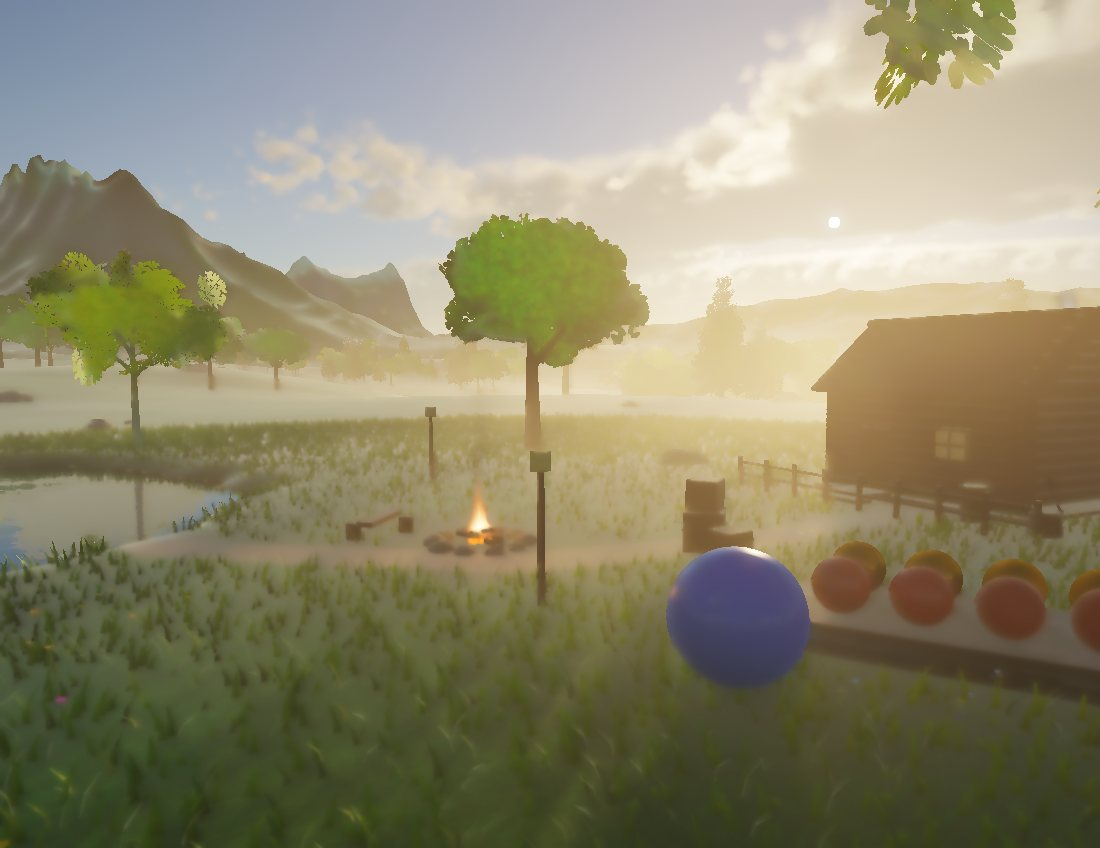
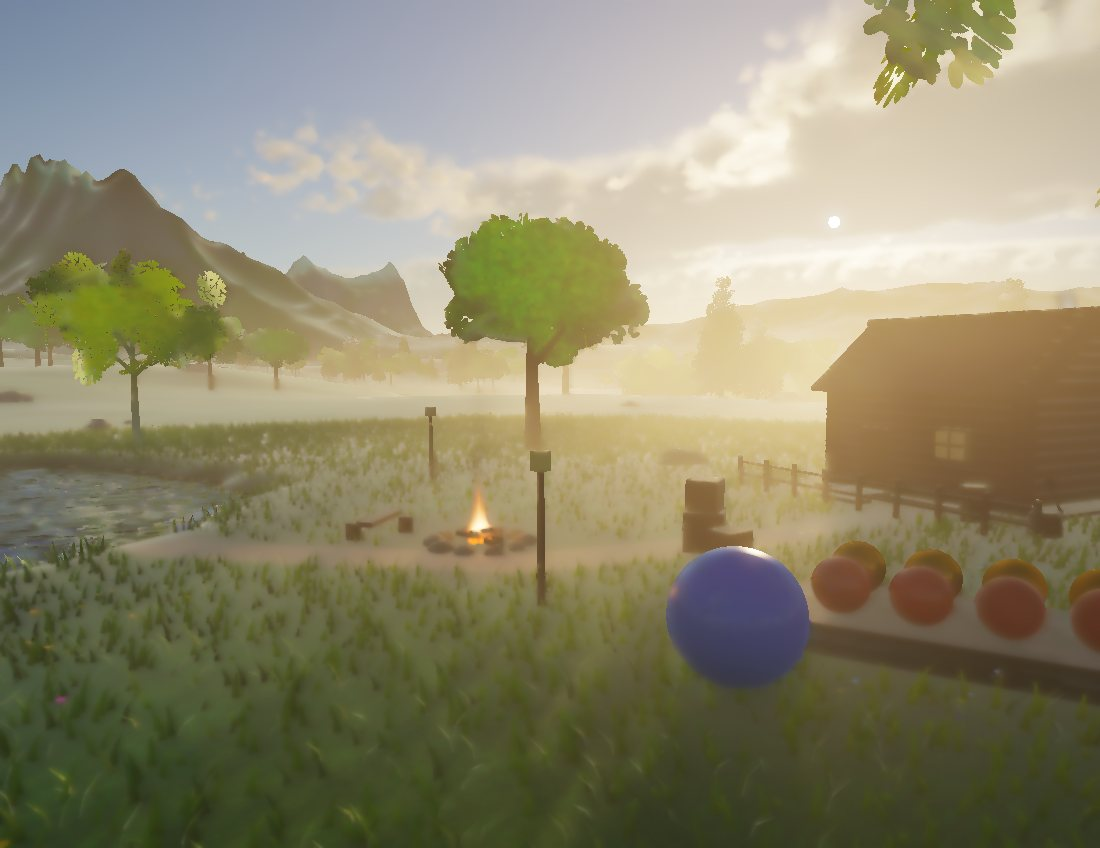
Sky, Sun & Light: wind waves from a JONSWAP spectrum and a compute FFT, with foam and caustics

diff --git a/sandbox/sky-and-light.html b/sandbox/sky-and-light.html
@@ -437,7 +437,7 @@ struct Params { invPV: mat4x4f, camPos: vec4f, sunDir: vec4f, sunCol: vec4f, moo
   sunE: f32, sunfade: f32, mieG: f32, sunCos: f32, night: f32, skyOn: f32, bounceOn: f32, fogD: f32, sunSize: f32, moonSize: f32, noiseShift: f32, blend: f32,
   tlasRoot: i32, nsph: i32, shadowK: i32, giK: i32, view: i32, frame: i32, shadowStride: i32, giStride: i32,
   matA: array<vec4f, ${MATN}>, matB: array<vec4f, ${MATN}>, matC: array<vec4f, ${MATN}>, sphA: array<vec4f, 40>, sphB: array<vec4f, 40>,
-  prevPV: mat4x4f, time: f32, mist: f32, cover: f32, wind: f32, fireBox0: vec4f, fireBox1: vec4f, chimBox0: vec4f, chimBox1: vec4f, waterOrg: vec4f, simOn: vec4f };
+  prevPV: mat4x4f, time: f32, mist: f32, cover: f32, wind: f32, fireBox0: vec4f, fireBox1: vec4f, chimBox0: vec4f, chimBox1: vec4f, waterOrg: vec4f, simOn: vec4f, ocean: vec4f };
 @group(0) @binding(0) var<uniform> P: Params;
 @group(0) @binding(1) var<storage, read> nodes: array<vec4f>;
 @group(0) @binding(2) var<storage, read> tris: array<vec4f>;
@@ -453,6 +453,8 @@ struct Params { invPV: mat4x4f, camPos: vec4f, sunDir: vec4f, sunCol: vec4f, moo
 @group(0) @binding(12) var tAP: texture_3d<f32>;
 @group(0) @binding(13) var sampC: sampler;
 @group(0) @binding(14) var tNoise: texture_3d<f32>;
+@group(0) @binding(15) var tOcean: texture_2d<f32>;
+@group(0) @binding(16) var tShore: texture_2d<f32>;
 const PI: f32 = 3.14159265;
 const LAKE: vec2f = vec2f(${LAKE.x.toFixed(1)}, ${LAKE.z.toFixed(1)});
 const LAKE_R: f32 = ${LAKE_R.toFixed(1)};
@@ -499,6 +501,10 @@ fn clouds(d: vec3f, base: vec3f, jit: f32, n: i32) -> vec3f { if (d.y < 0.02 || 
   let far = 1.0 - smoothstep(0.02, 0.09, d.y); let cl = base * T + acc * (1.0 - far * 0.6); return mix(cl, base, haze); }
 fn hg2(c: f32, g: f32) -> f32 { let g2 = g * g; return (1.0 - g2) / (4.0 * 3.14159265 * pow(1.0 + g2 - 2.0 * g * c, 1.5)); }
 fn cloudShadow(p: vec3f) -> f32 { let sun = P.sunDir.xyz; if (sun.y < 0.06 || P.cover <= 0.01) { return 1.0; } let w = cloudWeather((p + sun * ((CB + 350.0 - p.y) / sun.y)).xz); var od = 0.0; for (var k = 0; k < 3; k++) { let hy = CB + (CT - CB) * (0.2 + 0.3 * f32(k)); let q = p + sun * ((hy - p.y) / sun.y); od += cloudDensityW(q, false, w) * (CT - CB) * 0.3 * CSIG; } return mix(1.0, exp(-od), 0.9); }
+// wind waves: a tiled height field from a JONSWAP spectrum, turned into slopes, foam and a caustic factor by the FFT passes (tOcean = slope x, slope z, foam, caustic)
+const OCEAN_L: f32 = 16.0;
+fn oceanAt(xz: vec2f) -> vec4f { return textureSampleLevel(tOcean, samp, xz / OCEAN_L, 0.0); }
+fn shoreFade(xz: vec2f) -> f32 { let wu = (xz - P.waterOrg.xy) / P.waterOrg.z; if (any(wu <= vec2f(0.0)) || any(wu >= vec2f(1.0))) { return 0.0; } return textureSampleLevel(tShore, samp, wu, 0.0).g; }
 fn slab(bmin: vec3f, bmax: vec3f, o: vec3f, invD: vec3f, tMax: f32) -> bool { let t0 = (bmin - o) * invD; let t1 = (bmax - o) * invD; let tmin = min(t0, t1); let tmax = max(t0, t1); let tN = max(max(tmin.x, tmin.y), max(tmin.z, 0.0)); let tF = min(min(tmax.x, tmax.y), min(tmax.z, tMax)); return tN <= tF; }
 fn alphaOK(ti: i32, u: f32, w: f32) -> bool { let mid = i32(tris[ti * 3].w); let mb = P.matB[mid]; if (mb.w != 4.0) { return true; }
   let a0 = attrs[ti * 4]; let a1 = attrs[ti * 4 + 1]; let a2 = attrs[ti * 4 + 2]; let a3 = attrs[ti * 4 + 3]; let b0 = 1.0 - u - w; let uv = vec2f(a0.w * b0 + a1.w * u + a2.w * w, a3.x * b0 + a3.y * u + a3.z * w);
@@ -529,8 +535,9 @@ fn hitInfo(ro: vec3f, d: vec3f, H: Hit) -> Surf { var S: Surf; S.p = ro + d * H.
   else { let a0 = attrs[H.tri * 4]; let a1 = attrs[H.tri * 4 + 1]; let a2 = attrs[H.tri * 4 + 2]; let a3 = attrs[H.tri * 4 + 3]; let b0 = 1.0 - H.bary.x - H.bary.y; let nl = normalize(a0.xyz * b0 + a1.xyz * H.bary.x + a2.xyz * H.bary.y);
     let r0 = insts[H.inst * 4]; let r1 = insts[H.inst * 4 + 1]; let r2 = insts[H.inst * 4 + 2]; S.n = normalize(r0.xyz * nl.x + r1.xyz * nl.y + r2.xyz * nl.z); S.mid = i32(tris[H.tri * 3].w); S.uv = vec2f(a0.w * b0 + a1.w * H.bary.x + a2.w * H.bary.y, a3.x * b0 + a3.y * H.bary.x + a3.z * H.bary.y); }
   if (dot(S.n, d) > 0.0) { S.n = -S.n; }
-  if (P.matB[S.mid].w == 3.0) { let t = P.time; let b = S.p.xz * 3.9 + vec2f(-t * 0.11, t * 0.16); var g = vec2f(vn(b) - vn(b + 0.12), vn(b.yx) - vn(b.yx + 0.12)) * 0.05 * P.wind;
+  if (P.matB[S.mid].w == 3.0) { let t = P.time; let b = S.p.xz * 3.9 + vec2f(-t * 0.11, t * 0.16); var g = vec2f(vn(b) - vn(b + 0.12), vn(b.yx) - vn(b.yx + 0.12)) * 0.05 * P.wind * select(1.0, 0.3, P.ocean.x > 0.0);
     if (P.simOn.x > 0.5) { let wu = (S.p.xz - P.waterOrg.xy) / P.waterOrg.z; if (all(wu > vec2f(0.0)) && all(wu < vec2f(1.0))) { let n = P.waterOrg.w; let q = vec2i(wu * n); let cell = P.waterOrg.z / n; let hx = textureLoad(tWater, min(q + vec2i(1, 0), vec2i(i32(n) - 1)), 0).x - textureLoad(tWater, max(q - vec2i(1, 0), vec2i(0)), 0).x; let hz = textureLoad(tWater, min(q + vec2i(0, 1), vec2i(i32(n) - 1)), 0).x - textureLoad(tWater, max(q - vec2i(0, 1), vec2i(0)), 0).x; g += vec2f(hx, hz) / (2.0 * cell) * 0.45; } }
+    if (P.ocean.x > 0.0) { g += oceanAt(S.p.xz).xy * shoreFade(S.p.xz); }
     else { let a = S.p.xz * 1.7 + vec2f(t * 0.18, t * 0.07); g += vec2f(vn(a) - vn(a + 0.15), vn(a.yx) - vn(a.yx + 0.15)) * 0.22; }
     S.n = normalize(S.n + vec3f(g.x, 0.0, g.y)); }
   return S; }
@@ -672,14 +679,14 @@ fn marchVol(ro: vec3f, rd: vec3f, tMax: f32, b0: vec3f, b1: vec3f, isFire: bool,
     let sharp = select(0.0, 1.0 - smoothstep(0.12, 0.45, rough), R.a > 0.5); col += mix(specAmb, F * R.rgb, sharp) * select(vec3f(1.0), alb, metal > 0.5);
     if (P.matB[i32(D.w)].w == 3.0) { // water: what the mirror does not take goes down into it, and comes back tinted by how far it went
       let Fw = 0.02 + 0.98 * pow(1.0 - ndv, 5.0); let rd = refract(-v, n, 1.0 / 1.33); var under = vec3f(0.01, 0.06, 0.08);
-      if (dot(rd, rd) > 0.0) { let H = trace(p - n * 3e-3, rd, 40.0, false); if (H.hit) { let S = hitInfo(p - n * 3e-3, rd, H); let bottom = bounceShade(S, -rd, H.t + A.w, ign0(vec2f(px))); let ab = exp(-vec3f(0.55, 0.22, 0.14) * (H.t * 2.2 + 0.9)); under = bottom * ab + vec3f(0.02, 0.10, 0.12) * (1.0 - ab) * (P.skyZen.xyz * 3.0 + P.sunCol.xyz * 0.02); let foam = (1.0 - smoothstep(0.03, 0.35, H.t)) * smoothstep(0.55, 0.75, vn(p.xz * 3.0 + vec2f(P.time * 0.3, 0.0)) * 0.6 + vn(p.xz * 7.0 - P.time * 0.2) * 0.4); under = mix(under, (P.skyZen.xyz * 2.0 + P.sunCol.xyz * 0.25) * 0.8, foam * 0.5); } }
+      if (dot(rd, rd) > 0.0) { let H = trace(p - n * 3e-3, rd, 40.0, false); if (H.hit) { let S = hitInfo(p - n * 3e-3, rd, H); var bottom = bounceShade(S, -rd, H.t + A.w, ign0(vec2f(px))); if (P.ocean.x > 0.0 && P.sunDir.y > 0.05) { let cq = S.p + P.sunDir.xyz * ((p.y - S.p.y) / P.sunDir.y); let ca = oceanAt(cq.xz).w; bottom *= mix(1.0, ca, 0.85 * smoothstep(0.05, 0.2, P.sunDir.y) * shoreFade(cq.xz)); } let ab = exp(-vec3f(0.55, 0.22, 0.14) * (H.t * 2.2 + 0.9)); under = bottom * ab + vec3f(0.02, 0.10, 0.12) * (1.0 - ab) * (P.skyZen.xyz * 3.0 + P.sunCol.xyz * 0.02); let foam = (1.0 - smoothstep(0.03, 0.35, H.t)) * smoothstep(0.55, 0.75, vn(p.xz * 3.0 + vec2f(P.time * 0.3, 0.0)) * 0.6 + vn(p.xz * 7.0 - P.time * 0.2) * 0.4); let wf = select(0.0, oceanAt(p.xz).z * shoreFade(p.xz), P.ocean.x > 0.0); under = mix(under, (P.skyZen.xyz * 2.0 + P.sunCol.xyz * 0.25) * 0.8, min(foam * 0.5 + wf * 0.7, 0.9)); } }
       col = emis + sunVis * ndl * P.sunCol.xyz * specBRDF(n, v, P.sunDir.xyz, rough, vec3f(0.02)) + sphereLights(p + n * 3e-3, n, v, vec3f(0.0), vec3f(0.02), rough, ign0(vec2f(px)), 1, 24.0) + Fw * select(specAmb, R.rgb, R.a > 0.5) + (1.0 - Fw) * under; }
     // haze, and a mist that pools low in the valley
     let hc = max(P.camPos.y, 0.0); let hp = max(p.y, 0.0); let dh = hp - hc; let mistInt = select(exp(-hc / 6.0) * (1.0 - exp(-dh / 6.0)) / (dh / 6.0), exp(-hc / 6.0), abs(dh) < 0.01);
     let Tm = exp(-(P.mist * mistInt + 0.0004) * min(A.w, 140.0)); col = col * Tm + upsampleVol(px, A); col = aerial((vec2f(px) + 0.5) / P.res, A.w * (0.35 + 0.65 * clamp(P.fogD / 0.0015, 0.0, 3.0)), col);
-    if (P.view == 1) { col = vec3f(sunVis); } else if (P.view == 2) { col = E * 0.5; } else if (P.view == 3) { col = select(vec3f(0.0), R.rgb, R.a > 0.5); } }
+    if (P.view == 1) { col = vec3f(sunVis); } else if (P.view == 2) { col = E * 0.5; } else if (P.view == 3) { col = select(vec3f(0.0), R.rgb, R.a > 0.5); } else if (P.view == 9) { col = vec3f(n.x * 4.0 + 0.5, n.z * 4.0 + 0.5, 0.0); } else if (P.view == 10) { let o = oceanAt(p.xz); col = vec3f(o.x * 2.0 + 0.5, o.y * 2.0 + 0.5, shoreFade(p.xz)); } }
   { let uv = (vec2f(px) + 0.5) / P.res; let w = P.invPV * vec4f(uv.x * 2.0 - 1.0, 1.0 - uv.y * 2.0, 1.0, 1.0); let d = normalize(w.xyz / w.w - P.camPos.xyz); let tm = select(A.w, 1e9, A.w < 0.0); let j = ign(vec2f(px));
-    if (P.view == 5) { col = textureSampleLevel(tNoise, samp, vec3f(uv * 2.0, 0.3), 0.0).rgb; } else if (P.view == 6) { if (d.y > 0.02) { let q = P.camPos.xyz + d * ((1100.0 - P.camPos.y) / d.y); let wt = cloudWeather(q.xz); col = vec3f(cloudDensity(q, true) * 3.0, wt.x, 0.0); } }
+    if (P.view == 5) { col = textureSampleLevel(tNoise, samp, vec3f(uv * 2.0, 0.3), 0.0).rgb; } else if (P.view == 8) { let wx = P.waterOrg.xy + uv * P.waterOrg.z; col = vec3f(shoreFade(wx), textureSampleLevel(tShore, samp, uv, 0.0).r, 0.0); } else if (P.view == 7) { let o = select(textureSampleLevel(tOcean, samp, uv * vec2f(0.5, 0.25), 0.0), textureLoad(tOcean, vec2i(uv * vec2f(0.5, 0.25) * 128.0) % 128, 0), uv.x > 0.5); col = vec3f(o.x * 2.0 + 0.5, o.y * 2.0 + 0.5, 0.0); } else if (P.view == 6) { if (d.y > 0.02) { let q = P.camPos.xyz + d * ((1100.0 - P.camPos.y) / d.y); let wt = cloudWeather(q.xz); col = vec3f(cloudDensity(q, true) * 3.0, wt.x, 0.0); } }
     if (P.simOn.y > 0.5) { col = marchVol(P.camPos.xyz, d, tm, P.fireBox0.xyz, P.fireBox1.xyz, true, j, col); } if (P.simOn.z > 0.5) { col = marchVol(P.camPos.xyz, d, tm, P.chimBox0.xyz, P.chimBox1.xyz, false, j, col); } }
   textureStore(oCur, px, vec4f(col, A.w)); }`;
 // temporal anti-aliasing: find where this pixel was last frame, and blend, unless the history clearly does not belong here
@@ -757,12 +764,47 @@ fn srgb(c0: vec3f) -> vec3f { let c = clamp(c0, vec3f(0.0), vec3f(1.0)); return 
 @fragment fn fs(i: VO) -> @location(0) vec4f { var c = textureSampleLevel(tSrc, samp, i.uv, 0.0).rgb; let bl = textureSampleLevel(tBloom, samp, i.uv, 0.0).rgb; c += bl * D.bloom;
   if (D.shafts > 0.0 && D.sunUp > 0.0) { var sh = vec3f(0.0); let dv = (D.sunUv - i.uv) / 24.0; var uv = i.uv; var wsum = 0.0; for (var k = 0; k < 24; k++) { uv += dv; let w = 1.0 - f32(k) / 24.0; sh += textureSampleLevel(tBloom, samp, uv, 0.0).rgb * w; wsum += w; } let dist = length((D.sunUv - i.uv) * vec2f(1.0, 0.75)); c += sh / wsum * D.shafts * D.sunUp * (1.0 - smoothstep(0.35, 0.9, dist)); }
   c *= D.exposure; if (D.curve == 1.0) { c = aces(c); } else if (D.curve == 2.0) { c = c / (1.0 + c); } let lum = dot(c, vec3f(0.3, 0.59, 0.11)); c = mix(vec3f(lum), c, 1.1); let vd = length((i.uv - 0.5) * vec2f(1.0, 0.85)); c *= 1.0 - 0.28 * smoothstep(0.35, 0.95, vd); return vec4f(srgb(c), 1.0); }`;
-let gpu = null; const prevPV = new THREE.Matrix4(); const fx = { time: 0, dt: 0.016, mist: 0.006, cover: 0.35, wind: 1, bloom: 0.12, shafts: 0, waterOn: true, fireOn: true, chimOn: true, hideFlame: true, rain: 0, fireStrength: 1, smokeAmt: 1, windOn: true };
+let gpu = null; const prevPV = new THREE.Matrix4(); const fx = window.__fx = { oceanOn: true, waveAmp: 1, time: 0, dt: 0.016, mist: 0.006, cover: 0.35, wind: 1, bloom: 0.12, shafts: 0, waterOn: true, fireOn: true, chimOn: true, hideFlame: true, rain: 0, fireStrength: 1, smokeAmt: 1, windOn: true };
 // the simulation grids: a wave grid over the lake (with the shore as a wall), and two boxes of air over the fire and the chimney
-const SIM = (() => { const n = 256, size = 44, x0 = LAKE.x - size / 2, z0 = LAKE.z - size / 2; const land = new Uint8Array(n * n); for (let j = 0; j < n; j++) for (let i = 0; i < n; i++) { const x = x0 + (i + 0.5) / n * size, z = z0 + (j + 0.5) / n * size; land[j * n + i] = terrainH(x, z) > -0.55 ? 255 : 0; }
+const SIM = (() => { const n = 256, size = 44, x0 = LAKE.x - size / 2, z0 = LAKE.z - size / 2; const land = new Uint8Array(n * n * 2); for (let j = 0; j < n; j++) for (let i = 0; i < n; i++) { const x = x0 + (i + 0.5) / n * size, z = z0 + (j + 0.5) / n * size; const th = terrainH(x, z); land[(j * n + i) * 2] = th > -0.55 ? 255 : 0; const dp = Math.min(Math.max((-0.55 - th) / 0.9, 0), 1); land[(j * n + i) * 2 + 1] = Math.round(255 * dp * dp * (3 - 2 * dp)); }
   const fy = terrainH(FIRE.x, FIRE.z); const ca = Math.cos(-0.55), sa = Math.sin(-0.55); const cx = CABIN.x + (3.2 - 1.2) * ca + (-2.3 + 0.9) * sa, cz = CABIN.z - (3.2 - 1.2) * sa + (-2.3 + 0.9) * ca; const cy = terrainH(CABIN.x, CABIN.z) - 0.1 + 5.5;
   return { water: { n, size, x0, z0, land }, fire: { min: [FIRE.x - 1.3, fy + 0.05, FIRE.z - 1.3], max: [FIRE.x + 1.3, fy + 3.65, FIRE.z + 1.3], cell: 0.06, dims: [44, 60, 44], src: [FIRE.x, fy + 0.3, FIRE.z], srcR: 0.45, buoy: 7.0, heat: 1.0, smoke: 0.25 },
     chim: { min: [cx - 1.5, cy - 0.2, cz - 1.5], max: [cx + 1.5, cy + 5.2, cz + 1.5], cell: 0.09, dims: [34, 60, 34], src: [cx, cy + 0.05, cz], srcR: 0.32, buoy: 4.0, heat: 0.22, smoke: 1.6 } }; })();
+const OCEAN_N = 128, OCEAN_L = 16;
+// wind waves the way the sea is done: a JONSWAP spectrum (fetch-limited, so a pond in a breeze gets short waves), random phases, moved in time by the dispersion relation, then an inverse FFT
+const WG_OCEAN_COMMON = `
+struct OP { n: f32, L: f32, U: f32, F: f32, lam: f32, t: f32, amp: f32, dir: f32, seed: f32, foamK: f32, causK: f32, pad: f32 };
+@group(0) @binding(0) var<uniform> O: OP;
+const PI2: f32 = 6.28318530718; const GR: f32 = 9.81;
+fn kOf(px: vec2i) -> vec2f { let n = i32(O.n); return vec2f(f32(px.x - n / 2), f32(px.y - n / 2)) * PI2 / O.L; }
+fn omega(k: f32) -> f32 { return sqrt(GR * k * (1.0 + (k / 370.0) * (k / 370.0))); }
+fn cmul(a: vec2f, b: vec2f) -> vec2f { return vec2f(a.x * b.x - a.y * b.y, a.x * b.y + a.y * b.x); }`;
+const WG_OCEAN_INIT = WG_OCEAN_COMMON + `
+@group(0) @binding(1) var oH0: texture_storage_2d<rgba32float, write>;
+fn h21(p: vec2f) -> f32 { return fract(sin(dot(p, vec2f(127.1, 311.7))) * 43758.5453); }
+fn pcg2d(pIn: vec2u) -> vec2u { var v = pIn * 1664525u + 1013904223u; v.x += v.y * 1664525u; v.y += v.x * 1664525u; v ^= v >> vec2u(16u); v.x += v.y * 1664525u; v.y += v.x * 1664525u; v ^= v >> vec2u(16u); return v; }
+fn gauss(p: vec2f) -> vec2f { let r = pcg2d(vec2u(p) + vec2u(u32(O.seed) * 7919u, 17u)); let u1 = max(f32(r.x) / 4294967296.0, 1e-7); let u2 = f32(r.y) / 4294967296.0; let rr = sqrt(-2.0 * log(u1)); return vec2f(rr * cos(PI2 * u2), rr * sin(PI2 * u2)); }
+fn jonswap(w: f32) -> f32 { if (w <= 0.0) { return 0.0; } let wp = 22.0 * pow(GR * GR / (O.U * O.F), 1.0 / 3.0); let alpha = 0.076 * pow(O.U * O.U / (O.F * GR), 0.22); let sigma = select(0.09, 0.07, w <= wp); let r = exp(-(w - wp) * (w - wp) / (2.0 * sigma * sigma * wp * wp)); return alpha * GR * GR / pow(w, 5.0) * exp(-1.25 * pow(wp / w, 4.0)) * pow(3.3, r); }
+fn spread(th: f32) -> f32 { let c = cos(th - O.dir); return select(0.035, 0.035 + 0.5 * c * c, c > 0.0); }
+fn h0(k: vec2f, px: vec2f) -> vec2f { let kl = length(k); if (kl < 1e-4) { return vec2f(0.0); } let w = omega(kl); let dwdk = GR * (1.0 + 3.0 * (kl / 370.0) * (kl / 370.0)) / (2.0 * w); let dk = PI2 / O.L; let phi = jonswap(w) * spread(atan2(k.y, k.x)) * dwdk / kl; let cut = 1.0 - smoothstep(6.0, 11.0, kl); return gauss(px) * sqrt(2.0 * phi * dk * dk * cut) * 0.70710678; }
+@compute @workgroup_size(8, 8) fn main(@builtin(global_invocation_id) gid: vec3u) { let px = vec2i(gid.xy); let n = i32(O.n); if (px.x >= n || px.y >= n) { return; } let k = kOf(px); let a = h0(k, vec2f(px)); let b = h0(-k, vec2f(f32((n - px.x) % n), f32((n - px.y) % n))); textureStore(oH0, px, vec4f(a, b.x, -b.y)); }`;
+const WG_OCEAN_TIME = WG_OCEAN_COMMON + `
+@group(0) @binding(1) var tH0: texture_2d<f32>; @group(0) @binding(2) var oS: texture_storage_2d<rgba32float, write>;
+@compute @workgroup_size(8, 8) fn main(@builtin(global_invocation_id) gid: vec3u) { let px = vec2i(gid.xy); let n = i32(O.n); if (px.x >= n || px.y >= n) { return; } let k = kOf(px); let kl = length(k); let h = textureLoad(tH0, px, 0); let w = omega(kl) * O.t; let e = vec2f(cos(w), sin(w));
+  let H = (cmul(h.xy, e) + cmul(h.zw, vec2f(e.x, -e.y))) * O.amp; var s1 = vec2f(0.0); var s2 = vec2f(0.0); if (kl > 1e-4) { s1 = H * (1.0 + O.lam * k.x / kl); let q = O.lam * k.y / kl + kl * kl; s2 = vec2f(H.y * q, -H.x * q); } textureStore(oS, px, vec4f(s1, s2)); }`;
+const WG_FFT = `
+struct FP { stage: u32, dir: u32, n: u32, pad: u32 };
+@group(0) @binding(0) var<uniform> Fp: FP; @group(0) @binding(1) var tIn: texture_2d<f32>; @group(0) @binding(2) var oOut: texture_storage_2d<rgba32float, write>;
+fn cmul(a: vec2f, b: vec2f) -> vec2f { return vec2f(a.x * b.x - a.y * b.y, a.x * b.y + a.y * b.x); }
+@compute @workgroup_size(8, 8) fn main(@builtin(global_invocation_id) gid: vec3u) { let n = Fp.n; let half = n / 2u; if (gid.x >= half || gid.y >= n) { return; } let j = gid.x; let line = gid.y; let Ns = 1u << Fp.stage; let k = j % Ns; let ang = 6.28318530718 * f32(k) / f32(2u * Ns); let tw = vec2f(cos(ang), sin(ang));
+  var c0 = vec2i(i32(j), i32(line)); var c1 = vec2i(i32(j + half), i32(line)); if (Fp.dir == 1u) { c0 = c0.yx; c1 = c1.yx; } let a = textureLoad(tIn, c0, 0); let b = textureLoad(tIn, c1, 0); let b1 = cmul(b.xy, tw); let b2 = cmul(b.zw, tw);
+  let o0 = (j / Ns) * 2u * Ns + k; let o1 = o0 + Ns; var d0 = vec2i(i32(o0), i32(line)); var d1 = vec2i(i32(o1), i32(line)); if (Fp.dir == 1u) { d0 = d0.yx; d1 = d1.yx; } textureStore(oOut, d0, vec4f(a.xy + b1, a.zw + b2)); textureStore(oOut, d1, vec4f(a.xy - b1, a.zw - b2)); }`;
+const WG_OCEAN_FIN = WG_OCEAN_COMMON + `
+@group(0) @binding(1) var tS: texture_2d<f32>; @group(0) @binding(2) var oO: texture_storage_2d<rgba16float, write>;
+fn ld(px: vec2i) -> vec4f { let n = i32(O.n); let q = ((px % n) + n) % n; let sg = select(1.0, -1.0, ((q.x + q.y) & 1) == 1); return textureLoad(tS, q, 0) * sg; }
+@compute @workgroup_size(8, 8) fn main(@builtin(global_invocation_id) gid: vec3u) { let px = vec2i(gid.xy); let n = i32(O.n); if (px.x >= n || px.y >= n) { return; } let c = ld(px); let dx = 2.0 * O.L / O.n; let xp = ld(px + vec2i(1, 0)); let xm = ld(px - vec2i(1, 0)); let zp = ld(px + vec2i(0, 1)); let zm = ld(px - vec2i(0, 1));
+  let sx = (xp.x - xm.x) / dx; let sz = (zp.x - zm.x) / dx; let jxx = 1.0 + (xp.y - xm.y) / dx; let jzz = 1.0 + (zp.z - zm.z) / dx; let jxz = (zp.y - zm.y) / dx; let jzx = (xp.z - xm.z) / dx; let J = jxx * jzz - jxz * jzx;
+  let foam = clamp((O.foamK - J) * 2.5, 0.0, 1.0); let caus = min(1.0 / max(1.0 + c.w * O.causK, 0.2), 5.0); textureStore(oO, px, vec4f(sx, sz, foam, caus)); }`;
 const WG_WATER = `
 struct WP { n: f32, size: f32, dt: f32, time: f32, wind: f32, rain: f32, windDir: f32, pad: f32, drops: array<vec4f, 8>, nd: f32, p1: f32, p2: f32, p3: f32 };
 @group(0) @binding(0) var<uniform> W: WP; @group(0) @binding(1) var tIn: texture_2d<f32>; @group(0) @binding(2) var tLand: texture_2d<f32>; @group(0) @binding(3) var oOut: texture_storage_2d<rg32float, write>;
@@ -774,7 +816,7 @@ fn hAt(q: vec2i) -> f32 { let n = i32(W.n); if (q.x < 0 || q.y < 0 || q.x >= n |
   let hv = textureLoad(tIn, px, 0).xy; var h = hv.x; var v = hv.y; let avg = (hAt(px + vec2i(1, 0)) + hAt(px - vec2i(1, 0)) + hAt(px + vec2i(0, 1)) + hAt(px - vec2i(0, 1))) * 0.25;
   v = (v + (avg - h) * 0.45) * 0.994; h = (h + v) * 0.9985;
   // wind drags little ripples across, rain drops dimples, clicks make rings
-  let cell = W.size / W.n; let wp = vec2f(px) * cell; let gust = vn(wp * 0.9 + vec2f(W.time * 2.2, W.time * 0.7)) * vn(wp * 0.35 - vec2f(W.time * 0.9, 0.0)); h += (gust - 0.32) * 0.0012 * W.wind * W.dt * 60.0;
+  let cell = W.size / W.n; let wp = vec2f(px) * cell; let gust = vn(wp * 0.9 + vec2f(W.time * 2.2, W.time * 0.7)) * vn(wp * 0.35 - vec2f(W.time * 0.9, 0.0)); h += (gust - 0.32) * 0.0005 * W.wind * W.dt * 60.0;
   if (W.rain > 0.0) { let cellId = vec2f(px / 3); let r = h21(cellId + floor(W.time * 40.0)); if (r < W.rain * 0.002) { h -= 0.05; } }
   for (var i = 0; i < 8; i++) { if (f32(i) >= W.nd) { break; } let d = W.drops[i]; let dd = length(vec2f(px) - d.xy * W.n); if (dd < d.z) { h -= d.w * (1.0 - dd / d.z) * (1.0 - dd / d.z); } }
   textureStore(oOut, px, vec4f(h, v, 0.0, 0.0)); }`;
@@ -831,16 +873,16 @@ fn pAt(c: vec3i) -> f32 { let q = clamp(c, vec3i(0), vec3i(F.dims) - 1); return 
 async function startWebGPU() {
   if (!navigator.gpu) return null; const adapter = await navigator.gpu.requestAdapter({ powerPreference: 'high-performance' }).catch(() => null); if (!adapter) return null;
   const need = Math.max(nodeData.byteLength, triData.byteLength, attrData.byteLength, instData.byteLength); if (adapter.limits.maxStorageBufferBindingSize < need) return null;
-  const device = await adapter.requestDevice({ requiredLimits: { maxStorageBufferBindingSize: Math.max(need, 134217728), maxBufferSize: Math.max(need, 268435456) } }).catch(() => null); if (!device) return null;
+  const texLim = adapter.limits.maxSampledTexturesPerShaderStage; if (texLim < 18) return null; const device = await adapter.requestDevice({ requiredLimits: { maxStorageBufferBindingSize: Math.max(need, 134217728), maxBufferSize: Math.max(need, 268435456), maxSampledTexturesPerShaderStage: Math.min(texLim, 24) } }).catch(() => null); if (!device) return null;
   const canvas = document.createElement('canvas'); canvas.style.cssText = 'position:absolute;inset:0;width:100%;height:100%;display:block;'; sb.stage.insertBefore(canvas, sb.stage.firstChild); renderer.domElement.style.opacity = '0';
   const ctx = canvas.getContext('webgpu'); const format = navigator.gpu.getPreferredCanvasFormat(); ctx.configure({ device, format, alphaMode: 'opaque' });
   const mkBuf = (arr, usage) => { const b = device.createBuffer({ size: Math.ceil(arr.byteLength / 16) * 16, usage, mappedAtCreation: true }); new Float32Array(b.getMappedRange()).set(arr); b.unmap(); return b; };
   const bNodes = mkBuf(nodeData, GPUBufferUsage.STORAGE), bTris = mkBuf(triData, GPUBufferUsage.STORAGE), bTris0 = mkBuf(triData, GPUBufferUsage.STORAGE), bAttr = mkBuf(attrData, GPUBufferUsage.STORAGE), bInst = mkBuf(instData, GPUBufferUsage.STORAGE);
-  const PARAMS_F = 84 + MATN * 12 + 320 + 20 + 24; const paramsArr = new Float32Array(PARAMS_F), paramsI = new Int32Array(paramsArr.buffer); const bParams = device.createBuffer({ size: PARAMS_F * 4, usage: GPUBufferUsage.UNIFORM | GPUBufferUsage.COPY_DST });
+  const PARAMS_F = 84 + MATN * 12 + 320 + 20 + 24 + 4; const paramsArr = new Float32Array(PARAMS_F), paramsI = new Int32Array(paramsArr.buffer); const bParams = device.createBuffer({ size: PARAMS_F * 4, usage: GPUBufferUsage.UNIFORM | GPUBufferUsage.COPY_DST });
   const layers = [barkTex, birchTex, leafO, leafP, leafB, rockTex, woodTex, stoneTex, groundTex, grassTex]; const texArr = device.createTexture({ size: [256, 256, layers.length], format: 'rgba8unorm', usage: GPUTextureUsage.TEXTURE_BINDING | GPUTextureUsage.COPY_DST | GPUTextureUsage.RENDER_ATTACHMENT });
   layers.forEach((t, i) => device.queue.copyExternalImageToTexture({ source: t.image }, { texture: texArr, origin: [0, 0, i] }, [256, 256]));
   const samp = device.createSampler({ magFilter: 'linear', minFilter: 'linear', addressModeU: 'repeat', addressModeV: 'repeat', addressModeW: 'repeat' });
-  const g0Layout = device.createBindGroupLayout({ entries: [{ binding: 0, visibility: GPUShaderStage.COMPUTE, buffer: { type: 'uniform' } }, ...[1, 2, 3, 4].map(b => ({ binding: b, visibility: GPUShaderStage.COMPUTE, buffer: { type: 'read-only-storage' } })), { binding: 5, visibility: GPUShaderStage.COMPUTE, texture: { viewDimension: '2d-array' } }, { binding: 6, visibility: GPUShaderStage.COMPUTE, sampler: {} }, { binding: 7, visibility: GPUShaderStage.COMPUTE, texture: { sampleType: 'unfilterable-float' } }, { binding: 8, visibility: GPUShaderStage.COMPUTE, texture: { viewDimension: '3d' } }, { binding: 9, visibility: GPUShaderStage.COMPUTE, texture: { viewDimension: '3d' } }, { binding: 10, visibility: GPUShaderStage.COMPUTE, texture: {} }, { binding: 11, visibility: GPUShaderStage.COMPUTE, texture: {} }, { binding: 12, visibility: GPUShaderStage.COMPUTE, texture: { viewDimension: '3d' } }, { binding: 13, visibility: GPUShaderStage.COMPUTE, sampler: {} }, { binding: 14, visibility: GPUShaderStage.COMPUTE, texture: { viewDimension: '3d' } }] });
+  const g0Layout = device.createBindGroupLayout({ entries: [{ binding: 0, visibility: GPUShaderStage.COMPUTE, buffer: { type: 'uniform' } }, ...[1, 2, 3, 4].map(b => ({ binding: b, visibility: GPUShaderStage.COMPUTE, buffer: { type: 'read-only-storage' } })), { binding: 5, visibility: GPUShaderStage.COMPUTE, texture: { viewDimension: '2d-array' } }, { binding: 6, visibility: GPUShaderStage.COMPUTE, sampler: {} }, { binding: 7, visibility: GPUShaderStage.COMPUTE, texture: { sampleType: 'unfilterable-float' } }, { binding: 8, visibility: GPUShaderStage.COMPUTE, texture: { viewDimension: '3d' } }, { binding: 9, visibility: GPUShaderStage.COMPUTE, texture: { viewDimension: '3d' } }, { binding: 10, visibility: GPUShaderStage.COMPUTE, texture: {} }, { binding: 11, visibility: GPUShaderStage.COMPUTE, texture: {} }, { binding: 12, visibility: GPUShaderStage.COMPUTE, texture: { viewDimension: '3d' } }, { binding: 13, visibility: GPUShaderStage.COMPUTE, sampler: {} }, { binding: 14, visibility: GPUShaderStage.COMPUTE, texture: { viewDimension: '3d' } }, { binding: 15, visibility: GPUShaderStage.COMPUTE, texture: {} }, { binding: 16, visibility: GPUShaderStage.COMPUTE, texture: {} }] });
   const noiseTex = device.createTexture({ size: [64, 64, 64], format: 'rgba8unorm', dimension: '3d', usage: GPUTextureUsage.STORAGE_BINDING | GPUTextureUsage.TEXTURE_BINDING });
   { const l = device.createBindGroupLayout({ entries: [{ binding: 0, visibility: GPUShaderStage.COMPUTE, storageTexture: { access: 'write-only', format: 'rgba8unorm', viewDimension: '3d' } }] }); const pp = device.createComputePipeline({ layout: device.createPipelineLayout({ bindGroupLayouts: [l] }), compute: { module: device.createShaderModule({ code: WG_NOISE3D }), entryPoint: 'main' } }); const g = device.createBindGroup({ layout: l, entries: [{ binding: 0, resource: noiseTex.createView() }] }); const enc = device.createCommandEncoder(); const c = enc.beginComputePass(); c.setPipeline(pp); c.setBindGroup(0, g); c.dispatchWorkgroups(16, 16, 16); c.end(); device.queue.submit([enc.finish()]); }
   // ---- the atmosphere tables
@@ -863,12 +905,13 @@ async function startWebGPU() {
     let c = enc.beginComputePass(); c.setPipeline(lutP.sky); c.setBindGroup(0, lutG.sky); c.dispatchWorkgroups(24, 14); c.end(); c = enc.beginComputePass(); c.setPipeline(lutP.stats); c.setBindGroup(0, lutG.stats); c.dispatchWorkgroups(1); c.end(); if (!statsPending) enc.copyBufferToBuffer(statsBuf, 0, statsRead, 0, 48); }
   async function readStats() { if (statsPending) return; statsPending = true; try { await statsRead.mapAsync(GPUMapMode.READ); const f = new Float32Array(statsRead.getMappedRange().slice(0)); statsRead.unmap(); skyStats.zen = [f[0], f[1], f[2]]; skyStats.hor = [f[4], f[5], f[6]]; skyStats.sun = [f[8], f[9], f[10]]; skyStats.n++; } catch (e) { skyStats.err = String(e); } statsPending = false; }
   // ---- the fluids: a wave grid over the lake, and two small smoke-and-fire grids
-  const WN = SIM.water.n; const mk2 = (fmt) => device.createTexture({ size: [WN, WN], format: fmt, usage: GPUTextureUsage.STORAGE_BINDING | GPUTextureUsage.TEXTURE_BINDING | GPUTextureUsage.COPY_DST });
-  const wTex = [mk2('rg32float'), mk2('rg32float')]; const landTex = device.createTexture({ size: [WN, WN], format: 'r8unorm', usage: GPUTextureUsage.TEXTURE_BINDING | GPUTextureUsage.COPY_DST }); device.queue.writeTexture({ texture: landTex }, SIM.water.land, { bytesPerRow: WN }, [WN, WN]);
+  const WN = SIM.water.n; const mk2 = (fmt) => device.createTexture({ size: [WN, WN], format: fmt, usage: GPUTextureUsage.STORAGE_BINDING | GPUTextureUsage.TEXTURE_BINDING | GPUTextureUsage.COPY_DST | GPUTextureUsage.COPY_SRC });
+  const wTex = [mk2('rg32float'), mk2('rg32float')]; window.__wTex = wTex; const landTex = device.createTexture({ size: [WN, WN], format: 'rg8unorm', usage: GPUTextureUsage.TEXTURE_BINDING | GPUTextureUsage.COPY_DST }); device.queue.writeTexture({ texture: landTex }, SIM.water.land, { bytesPerRow: WN * 2 }, [WN, WN]);
+  const mkO = (fmt) => device.createTexture({ size: [OCEAN_N, OCEAN_N], format: fmt, usage: GPUTextureUsage.STORAGE_BINDING | GPUTextureUsage.TEXTURE_BINDING | GPUTextureUsage.COPY_SRC }); const oceanTex = { h0: mkO('rgba32float'), spec: [mkO('rgba32float'), mkO('rgba32float')], out: mkO('rgba16float') };
   const mk3 = (d, fmt) => device.createTexture({ size: d, format: fmt, dimension: '3d', usage: GPUTextureUsage.STORAGE_BINDING | GPUTextureUsage.TEXTURE_BINDING });
   const vols = {}; for (const k of ['fire', 'chim']) { const d = SIM[k].dims; vols[k] = { vel: [mk3(d, 'rgba16float'), mk3(d, 'rgba16float')], q: [mk3(d, 'rgba16float'), mk3(d, 'rgba16float')], pr: [mk3(d, 'r32float'), mk3(d, 'r32float')], div: mk3(d, 'r32float'), buf: device.createBuffer({ size: 96, usage: GPUBufferUsage.UNIFORM | GPUBufferUsage.COPY_DST }) }; }
   const wBuf = device.createBuffer({ size: 176, usage: GPUBufferUsage.UNIFORM | GPUBufferUsage.COPY_DST });
-  const g0s = [0, 1].map(i => device.createBindGroup({ layout: g0Layout, entries: [{ binding: 0, resource: { buffer: bParams } }, { binding: 1, resource: { buffer: bNodes } }, { binding: 2, resource: { buffer: bTris } }, { binding: 3, resource: { buffer: bAttr } }, { binding: 4, resource: { buffer: bInst } }, { binding: 5, resource: texArr.createView({ dimension: '2d-array' }) }, { binding: 6, resource: samp }, { binding: 7, resource: wTex[i].createView() }, { binding: 8, resource: vols.fire.q[i].createView() }, { binding: 9, resource: vols.chim.q[i].createView() }, { binding: 10, resource: lutSky.createView() }, { binding: 11, resource: lutT.createView() }, { binding: 12, resource: lutAP.createView() }, { binding: 13, resource: sampC }, { binding: 14, resource: noiseTex.createView() }] }));
+  const g0s = [0, 1].map(i => device.createBindGroup({ layout: g0Layout, entries: [{ binding: 0, resource: { buffer: bParams } }, { binding: 1, resource: { buffer: bNodes } }, { binding: 2, resource: { buffer: bTris } }, { binding: 3, resource: { buffer: bAttr } }, { binding: 4, resource: { buffer: bInst } }, { binding: 5, resource: texArr.createView({ dimension: '2d-array' }) }, { binding: 6, resource: samp }, { binding: 7, resource: wTex[i].createView() }, { binding: 8, resource: vols.fire.q[i].createView() }, { binding: 9, resource: vols.chim.q[i].createView() }, { binding: 10, resource: lutSky.createView() }, { binding: 11, resource: lutT.createView() }, { binding: 12, resource: lutAP.createView() }, { binding: 13, resource: sampC }, { binding: 14, resource: noiseTex.createView() }, { binding: 15, resource: oceanTex.out.createView() }, { binding: 16, resource: landTex.createView() }] }));
   let g0 = g0s[0];
   const simL = { water: device.createBindGroupLayout({ entries: [{ binding: 0, visibility: GPUShaderStage.COMPUTE, buffer: { type: 'uniform' } }, { binding: 1, visibility: GPUShaderStage.COMPUTE, texture: { sampleType: 'unfilterable-float' } }, { binding: 2, visibility: GPUShaderStage.COMPUTE, texture: { sampleType: 'unfilterable-float' } }, { binding: 3, visibility: GPUShaderStage.COMPUTE, storageTexture: { access: 'write-only', format: 'rg32float' } }] }),
     adv: device.createBindGroupLayout({ entries: [{ binding: 0, visibility: GPUShaderStage.COMPUTE, buffer: { type: 'uniform' } }, { binding: 1, visibility: GPUShaderStage.COMPUTE, texture: { viewDimension: '3d' } }, { binding: 2, visibility: GPUShaderStage.COMPUTE, texture: { viewDimension: '3d' } }, { binding: 3, visibility: GPUShaderStage.COMPUTE, storageTexture: { access: 'write-only', format: 'rgba16float', viewDimension: '3d' } }, { binding: 4, visibility: GPUShaderStage.COMPUTE, storageTexture: { access: 'write-only', format: 'rgba16float', viewDimension: '3d' } }, { binding: 5, visibility: GPUShaderStage.COMPUTE, sampler: {} }] }),
@@ -879,6 +922,24 @@ async function startWebGPU() {
   const windL = device.createBindGroupLayout({ entries: [{ binding: 0, visibility: GPUShaderStage.COMPUTE, buffer: { type: 'uniform' } }, { binding: 1, visibility: GPUShaderStage.COMPUTE, buffer: { type: 'read-only-storage' } }, { binding: 2, visibility: GPUShaderStage.COMPUTE, buffer: { type: 'storage' } }, { binding: 3, visibility: GPUShaderStage.COMPUTE, buffer: { type: 'read-only-storage' } }] });
   const windPipe = simPipe(WG_WIND, windL); const windGroup = device.createBindGroup({ layout: windL, entries: [{ binding: 0, resource: { buffer: bParams } }, { binding: 1, resource: { buffer: bTris0 } }, { binding: 2, resource: { buffer: bTris } }, { binding: 3, resource: { buffer: bAttr } }] });
   const simP = { water: simPipe(WG_WATER, simL.water), adv: simPipe(WG_ADV, simL.adv), div: simPipe(WG_DIV, simL.div), jac: simPipe(WG_JAC, simL.jac), proj: simPipe(WG_PROJ, simL.proj) };
+  const oL = { init: device.createBindGroupLayout({ entries: [{ binding: 0, visibility: GPUShaderStage.COMPUTE, buffer: { type: 'uniform' } }, { binding: 1, visibility: GPUShaderStage.COMPUTE, storageTexture: { access: 'write-only', format: 'rgba32float' } }] }),
+    time: device.createBindGroupLayout({ entries: [{ binding: 0, visibility: GPUShaderStage.COMPUTE, buffer: { type: 'uniform' } }, { binding: 1, visibility: GPUShaderStage.COMPUTE, texture: { sampleType: 'unfilterable-float' } }, { binding: 2, visibility: GPUShaderStage.COMPUTE, storageTexture: { access: 'write-only', format: 'rgba32float' } }] }),
+    fft: device.createBindGroupLayout({ entries: [{ binding: 0, visibility: GPUShaderStage.COMPUTE, buffer: { type: 'uniform', hasDynamicOffset: true } }, { binding: 1, visibility: GPUShaderStage.COMPUTE, texture: { sampleType: 'unfilterable-float' } }, { binding: 2, visibility: GPUShaderStage.COMPUTE, storageTexture: { access: 'write-only', format: 'rgba32float' } }] }),
+    fin: device.createBindGroupLayout({ entries: [{ binding: 0, visibility: GPUShaderStage.COMPUTE, buffer: { type: 'uniform' } }, { binding: 1, visibility: GPUShaderStage.COMPUTE, texture: { sampleType: 'unfilterable-float' } }, { binding: 2, visibility: GPUShaderStage.COMPUTE, storageTexture: { access: 'write-only', format: 'rgba16float' } }] }) };
+  const oP = { init: simPipe(WG_OCEAN_INIT, oL.init), time: simPipe(WG_OCEAN_TIME, oL.time), fft: simPipe(WG_FFT, oL.fft), fin: simPipe(WG_OCEAN_FIN, oL.fin) };
+  const oBuf = device.createBuffer({ size: 48, usage: GPUBufferUsage.UNIFORM | GPUBufferUsage.COPY_DST }); const FFT_STAGES = 2 * Math.log2(OCEAN_N); const fBuf = device.createBuffer({ size: 256 * FFT_STAGES, usage: GPUBufferUsage.UNIFORM | GPUBufferUsage.COPY_DST });
+  for (let st = 0; st < FFT_STAGES; st++) device.queue.writeBuffer(fBuf, st * 256, new Uint32Array([st % Math.log2(OCEAN_N), st < Math.log2(OCEAN_N) ? 0 : 1, OCEAN_N, 0]));
+  const oG = { init: device.createBindGroup({ layout: oL.init, entries: [{ binding: 0, resource: { buffer: oBuf } }, { binding: 1, resource: oceanTex.h0.createView() }] }),
+    time: device.createBindGroup({ layout: oL.time, entries: [{ binding: 0, resource: { buffer: oBuf } }, { binding: 1, resource: oceanTex.h0.createView() }, { binding: 2, resource: oceanTex.spec[0].createView() }] }),
+    fft: [0, 1].map(i => device.createBindGroup({ layout: oL.fft, entries: [{ binding: 0, resource: { buffer: fBuf, size: 16 } }, { binding: 1, resource: oceanTex.spec[i].createView() }, { binding: 2, resource: oceanTex.spec[1 - i].createView() }] })),
+    fin: device.createBindGroup({ layout: oL.fin, entries: [{ binding: 0, resource: { buffer: oBuf } }, { binding: 1, resource: oceanTex.spec[0].createView() }, { binding: 2, resource: oceanTex.out.createView() }] }) };
+  window.__readOcean = async (which) => { const src = which === 'h0' ? oceanTex.h0 : which === 'out' ? oceanTex.out : which === 'water' ? wTex[cur] : oceanTex.spec[0]; const bpp = which === 'out' ? 8 : which === 'water' ? 8 : 16; const bytes = OCEAN_N * OCEAN_N * bpp; const rb = device.createBuffer({ size: bytes, usage: GPUBufferUsage.COPY_DST | GPUBufferUsage.MAP_READ }); const enc = device.createCommandEncoder(); enc.copyTextureToBuffer({ texture: src }, { buffer: rb, bytesPerRow: OCEAN_N * bpp }, [OCEAN_N, OCEAN_N]); device.queue.submit([enc.finish()]); await rb.mapAsync(GPUMapMode.READ); const f = which === 'out' ? Array.from(new Uint16Array(rb.getMappedRange())) : which === 'water' ? Array.from(new Float32Array(rb.getMappedRange())) : Array.from(new Float32Array(rb.getMappedRange())); rb.unmap(); return f; };
+  let oceanWind = -1;
+  function oceanStep(enc) { if (!fx.oceanOn) return; const wg = OCEAN_N / 8;
+    device.queue.writeBuffer(oBuf, 0, new Float32Array([OCEAN_N, OCEAN_L, 1.2 + fx.wind * 2.6, 600, 0.8, fx.time, fx.waveAmp, 0.6, 7, 0.35, 0.12, 0]));
+    const run = (pipe, grp, x, y, off) => { const c = enc.beginComputePass(); c.setPipeline(pipe); if (off === undefined) c.setBindGroup(0, grp); else c.setBindGroup(0, grp, [off]); c.dispatchWorkgroups(x, y); c.end(); };
+    if (oceanWind !== fx.wind) { run(oP.init, oG.init, wg, wg); oceanWind = fx.wind; }
+    run(oP.time, oG.time, wg, wg); for (let st = 0; st < FFT_STAGES; st++) run(oP.fft, oG.fft[st & 1], wg / 2, wg, st * 256); run(oP.fin, oG.fin, wg, wg); }
   const wGroups = [0, 1].map(i => device.createBindGroup({ layout: simL.water, entries: [{ binding: 0, resource: { buffer: wBuf } }, { binding: 1, resource: wTex[i].createView() }, { binding: 2, resource: landTex.createView() }, { binding: 3, resource: wTex[1 - i].createView() }] }));
   const volSamp = device.createSampler({ magFilter: 'linear', minFilter: 'linear', addressModeU: 'clamp-to-edge', addressModeV: 'clamp-to-edge', addressModeW: 'clamp-to-edge' });
   const vGroups = {}; for (const k of ['fire', 'chim']) { const V = vols[k]; const B = { buffer: V.buf }; const E = (b, r) => ({ binding: b, resource: r });
@@ -932,11 +993,11 @@ async function startWebGPU() {
     f[56] = w; f[57] = h; f[58] = st.lw; f[59] = st.lh; f[60] = st.qw; f[61] = st.qh; f[62] = jitter.x; f[63] = jitter.y;
     f[64] = U.uSunE.value; f[65] = U.uSunfade.value; f[66] = U.uMieG.value; f[67] = U.uSunCos.value; f[68] = U.uNight.value; f[69] = U.uSkyOn.value; f[70] = U.uBounceOn.value; f[71] = U.uFogD.value; f[72] = U.uSunSize.value; f[73] = U.uMoonSize.value; f[74] = U.uNoiseShift.value; f[75] = blend;
     paramsI[76] = tlasRoot; paramsI[77] = spheres.length; paramsI[78] = U.uShadowK.value; paramsI[79] = U.uGiK.value; paramsI[80] = view; paramsI[81] = U.uFrame.value; paramsI[82] = st.ss; paramsI[83] = st.gs;
-    f.set(matA, 84); f.set(matB, 84 + MATN * 4); f.set(matC, 84 + MATN * 8); f.set(sphA, 84 + MATN * 12); f.set(sphB, 84 + MATN * 12 + 160); const o2 = 84 + MATN * 12 + 320; f.set(prevPV.elements, o2); f[o2 + 16] = fx.time; f[o2 + 17] = fx.mist; f[o2 + 18] = fx.cover; f[o2 + 19] = fx.wind; f.set([...SIM.fire.min, 0, ...SIM.fire.max, 0, ...SIM.chim.min, 0, ...SIM.chim.max, 0, SIM.water.x0, SIM.water.z0, SIM.water.size, SIM.water.n, fx.waterOn ? 1 : 0, fx.fireOn ? 1 : 0, fx.chimOn ? 1 : 0, fx.hideFlame ? 1 : 0], o2 + 20); device.queue.writeBuffer(bParams, 0, paramsArr); }
+    f.set(matA, 84); f.set(matB, 84 + MATN * 4); f.set(matC, 84 + MATN * 8); f.set(sphA, 84 + MATN * 12); f.set(sphB, 84 + MATN * 12 + 160); const o2 = 84 + MATN * 12 + 320; f.set(prevPV.elements, o2); f[o2 + 16] = fx.time; f[o2 + 17] = fx.mist; f[o2 + 18] = fx.cover; f[o2 + 19] = fx.wind; f.set([...SIM.fire.min, 0, ...SIM.fire.max, 0, ...SIM.chim.min, 0, ...SIM.chim.max, 0, SIM.water.x0, SIM.water.z0, SIM.water.size, SIM.water.n, fx.waterOn ? 1 : 0, fx.fireOn ? 1 : 0, fx.chimOn ? 1 : 0, fx.hideFlame ? 1 : 0], o2 + 20); f.set([fx.oceanOn ? 1 : 0, OCEAN_L, 0, 0], o2 + 44); device.queue.writeBuffer(bParams, 0, paramsArr); }
   function render(w, h, blend, view, jitter, doBlur, ss, gs) {
     ensure(w, h, ss, gs); fillParams(w, h, blend, view, jitter); const sc = sunDir.clone().multiplyScalar(1000).add(camera.position).project(camera); device.queue.writeBuffer(bDisp, 0, new Float32Array([dispU.uExposure.value, dispU.uCurve.value, fx.bloom, fx.shafts, sc.x * 0.5 + 0.5, 0.5 - sc.y * 0.5, sc.z < 1 && sunDir.y > 0.02 ? 1 : 0, 0]));
     const cw = Math.max(1, Math.round(sb.stage.clientWidth * Math.min(devicePixelRatio || 1, 2))), ch = Math.max(1, Math.round(sb.stage.clientHeight * Math.min(devicePixelRatio || 1, 2))); if (canvas.width !== cw || canvas.height !== ch) { canvas.width = cw; canvas.height = ch; }
-    const enc = device.createCommandEncoder(); const G = st.groups; skyPass(enc); simStep(enc, fx.dt, cur); g0 = g0s[1 - cur]; const run = (p, g, x, y) => { const c = enc.beginComputePass(); c.setPipeline(p); c.setBindGroup(0, g0); c.setBindGroup(1, g); c.dispatchWorkgroups(Math.ceil(x / 8), Math.ceil(y / 8)); c.end(); };
+    const enc = device.createCommandEncoder(); const G = st.groups; skyPass(enc); simStep(enc, fx.dt, cur); oceanStep(enc); g0 = g0s[1 - cur]; const run = (p, g, x, y) => { const c = enc.beginComputePass(); c.setPipeline(p); c.setBindGroup(0, g0); c.setBindGroup(1, g); c.dispatchWorkgroups(Math.ceil(x / 8), Math.ceil(y / 8)); c.end(); };
     run(pipes.gbuf, G.gbuf, w, h); run(pipes.shadow, G.shadow[cur], st.lw, st.lh); run(pipes.acc, G.accS[cur], st.lw, st.lh); run(pipes.gi, G.gi, st.qw, st.qh); run(pipes.acc, G.accG[cur], st.qw, st.qh);
     run(pipes.blur, G.blurS1[cur], st.lw, st.lh); run(pipes.blur, G.blurS2, st.lw, st.lh); run(pipes.blur, G.blurG1[cur], st.qw, st.qh); run(pipes.blur, G.blurG2, st.qw, st.qh);
     run(pipes.vol, G.vol, st.qw, st.qh); run(pipes.acc, G.accV[cur], st.qw, st.qh); run(pipes.blur, G.blurV1[cur], st.qw, st.qh); run(pipes.blur, G.blurV2, st.qw, st.qh);
@@ -1005,9 +1066,11 @@ s5.slider('How thick', { min: 0, max: 0.02, step: 0.0005, value: 0.0015, fmt: v 
 s5.slider('Mist, pooling low (sun beams live in it)', { min: 0, max: 0.08, step: 0.002, value: 0.006, fmt: v => (+v).toFixed(3) }, v => { fx.mist = v; });
 s5.slider('Glow around bright things (bloom)', { min: 0, max: 0.5, step: 0.01, value: 0.12, fmt: v => (+v).toFixed(2) }, v => { fx.bloom = v; });
 
-const s7 = sb.panel.section('07 · Fluids', 'The lake is a grid of water heights that push on their neighbours, so waves travel, bounce off the shore and cross. The fire and the chimney are boxes of air: heat rises, the flow is kept from piling up, and smoke and heat ride along. What you see is a ray marched through those boxes.');
+const s7 = sb.panel.section('07 · Fluids', 'The lake is a grid of water heights that push on their neighbours, so waves travel, bounce off the shore and cross. On top of that ride the wind waves: a spectrum of how much energy a breeze puts into each wavelength, summed into a surface by a fast Fourier transform every frame, with foam where the waves fold and a caustic pattern on the bottom. The fire and the chimney are boxes of air: heat rises, the flow is kept from piling up, and smoke and heat ride along. What you see is a ray marched through those boxes.');
 s7.toggle('wind in the grass and the trees', true, v => { fx.windOn = v; });
 s7.toggle('simulate the water', true, v => { fx.waterOn = v; });
+s7.toggle('wind waves from a wave spectrum (FFT)', true, v => { fx.oceanOn = v; });
+s7.slider('Wave height', { min: 0, max: 3, step: 0.05, value: 1, fmt: v => '× ' + (+v).toFixed(2) }, v => { fx.waveAmp = v; });
 s7.slider('Rain', { min: 0, max: 1, step: 0.05, value: 0, fmt: v => (+v).toFixed(2) }, v => { fx.rain = v; });
 s7.note('Click on the lake to drop a stone in.');
 s7.toggle('simulate the fire', true, v => { fx.fireOn = v; fx.hideFlame = v; });
